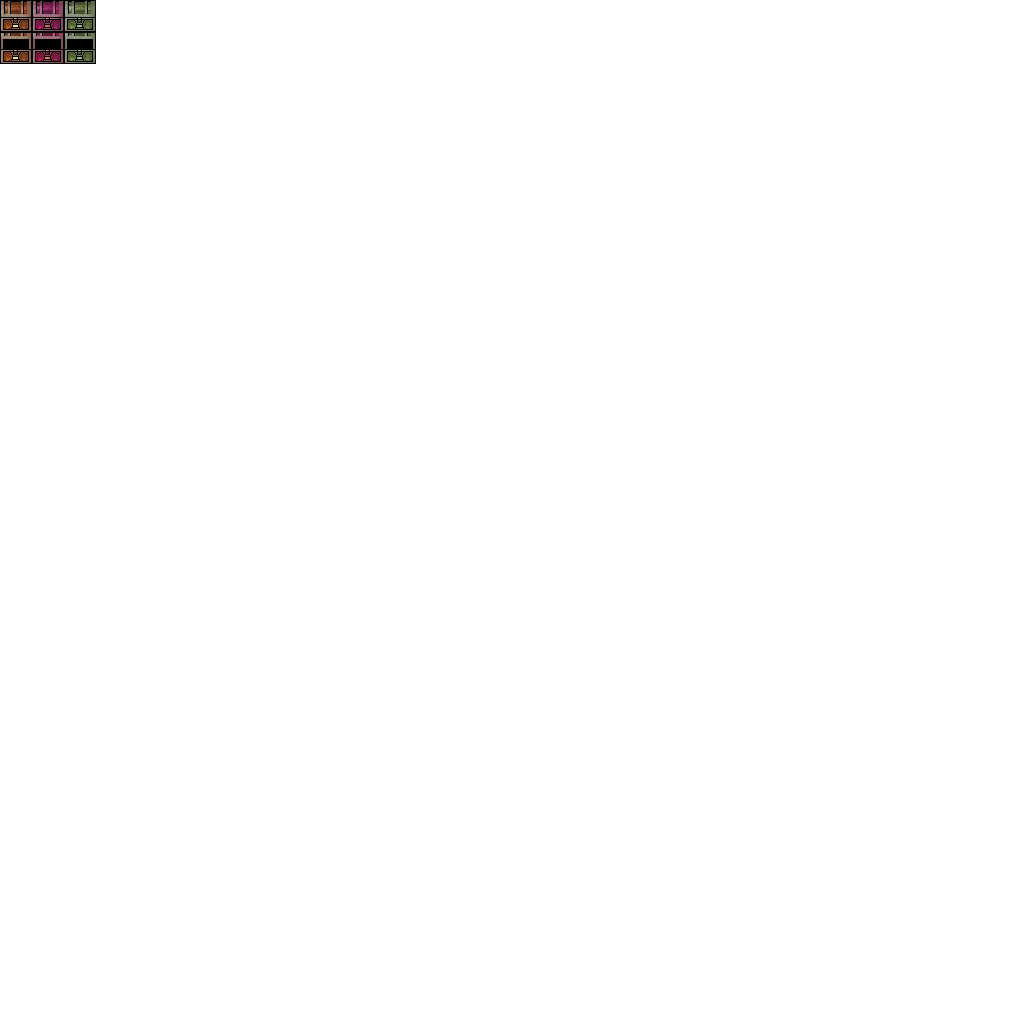
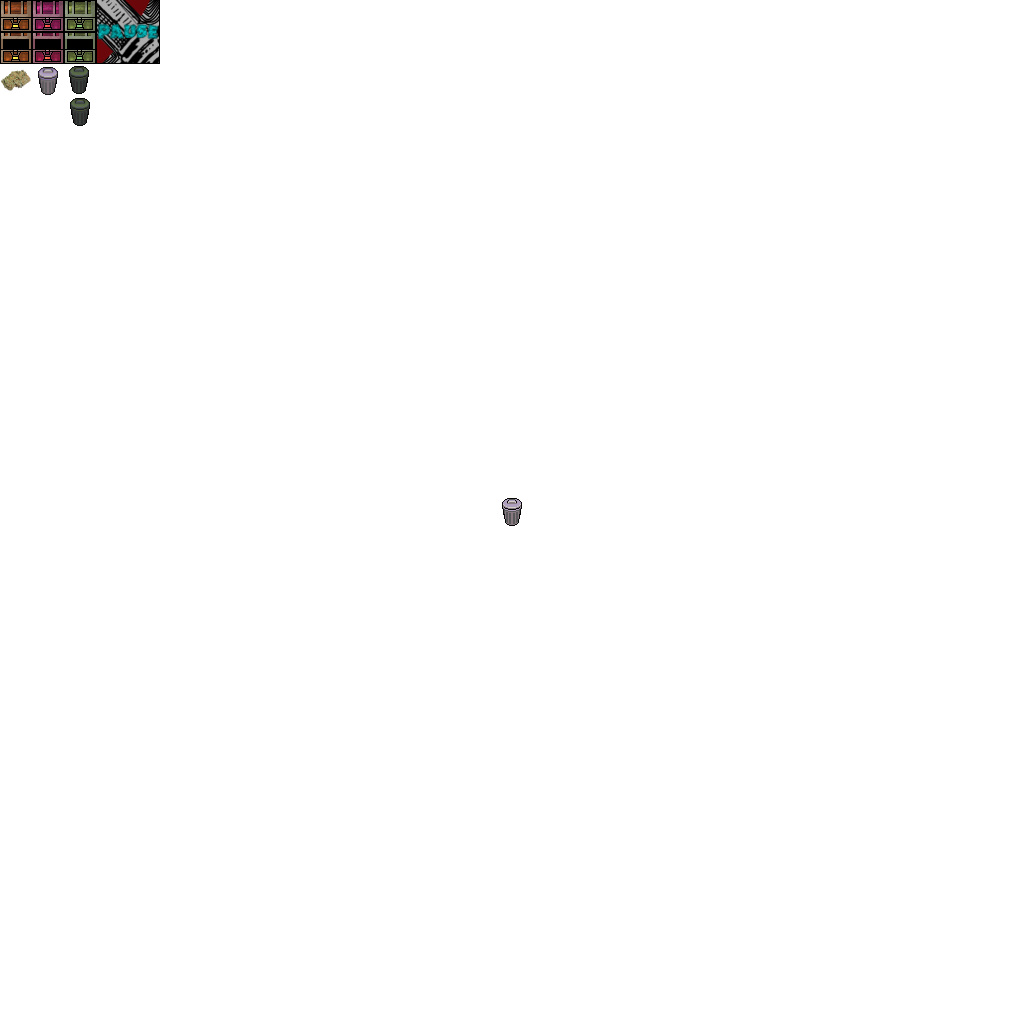
Added the pause button

Changed region(s): [[0.0938, 0.0, 0.1562, 0.0625], [0.0, 0.0625, 0.0938, 0.125], [0.4688, 0.4688, 0.5312, 0.5]]

diff --git a/src/com/arnopaja/supermac/helpers/load/AssetLoader.java b/src/com/arnopaja/supermac/helpers/load/AssetLoader.java
@@ -41,6 +41,7 @@ public class AssetLoader {
     public static TextureRegion asphaltCobbleN, asphaltCobbleE, asphaltCobbleS, asphaltCobbleW;
     public static TextureRegion asphaltCobbleNE, asphaltCobbleSE, asphaltCobbleSW, asphaltCobbleNW;
     public static Animation asteroid;
+
     //Indoor Tiles
     public static TextureRegion wh, wv, wne, wse,wsw,wnw,wtn,wte,wts,wtw,wp,wen,wee,wes,wew,wene,wese,wesw,wenw,wine,wise,wisw,winw,wetn,wete,wets,wetw;
     public static TextureRegion wdoor, edoor, ndoor, sdoor;
@@ -55,6 +56,8 @@ public class AssetLoader {
     public static TextureRegion chestRedOpen, chestRedClosed;
     public static TextureRegion chestGreenOpen, chestGreenClosed;
     public static TextureRegion garbageCan;
+
+    public static TextureRegion pauseButton;
 
     // Characters
     public static Map<String, CharacterAsset> characterAssetMap = new HashMap<String, CharacterAsset>();
@@ -192,21 +195,6 @@ public class AssetLoader {
         sdoor = SpriteUtils.makeSprite(indoorsTexture, 7, 5);
         wh = SpriteUtils.makeSprite(indoorsTexture, 1, 3);
 
-
-
-
-
-
-
-
-
-
-
-
-
-
-
-
         MapLoader.initTileMap(); // Must be called after all tiles and buildings are loaded
 
         //--------------------------
@@ -220,6 +208,8 @@ public class AssetLoader {
         chestRedOpen = SpriteUtils.makeSprite(tilesTexture, 1, 1);
         chestGreenClosed = SpriteUtils.makeSprite(tilesTexture, 2, 0);
         chestGreenOpen = SpriteUtils.makeSprite(tilesTexture, 2, 1);
+
+        pauseButton = SpriteUtils.makeSprite(entitiesTexture, 3, 0, 2, 2);
 
         //--------------------------
         //       Characters
@@ -342,6 +332,7 @@ public class AssetLoader {
 
     public static void dispose() {
         tilesTexture.dispose();
+        indoorsTexture.dispose();
         entitiesTexture.dispose();
         characterTexture.dispose();
         worldMusic.dispose();

diff --git a/src/com/arnopaja/supermac/world/WorldRenderer.java b/src/com/arnopaja/supermac/world/WorldRenderer.java
@@ -2,6 +2,7 @@ package com.arnopaja.supermac.world;
 
 import com.arnopaja.supermac.helpers.Renderer;
 import com.arnopaja.supermac.helpers.dialogue.DialogueHandler;
+import com.arnopaja.supermac.helpers.load.AssetLoader;
 import com.arnopaja.supermac.world.grid.Grid;
 import com.arnopaja.supermac.world.grid.RenderGrid;
 import com.arnopaja.supermac.world.objects.MainMapCharacter;
@@ -33,6 +34,10 @@ public class WorldRenderer extends Renderer<World> {
 
         dialogueHandler.render(shapeRenderer, batch);
 
-        // TODO: add a Pause Button
+        if (!dialogueHandler.isDisplaying()) {
+            batch.begin();
+            batch.draw(AssetLoader.pauseButton, 0, 0);
+            batch.end();
+        }
     }
 }
